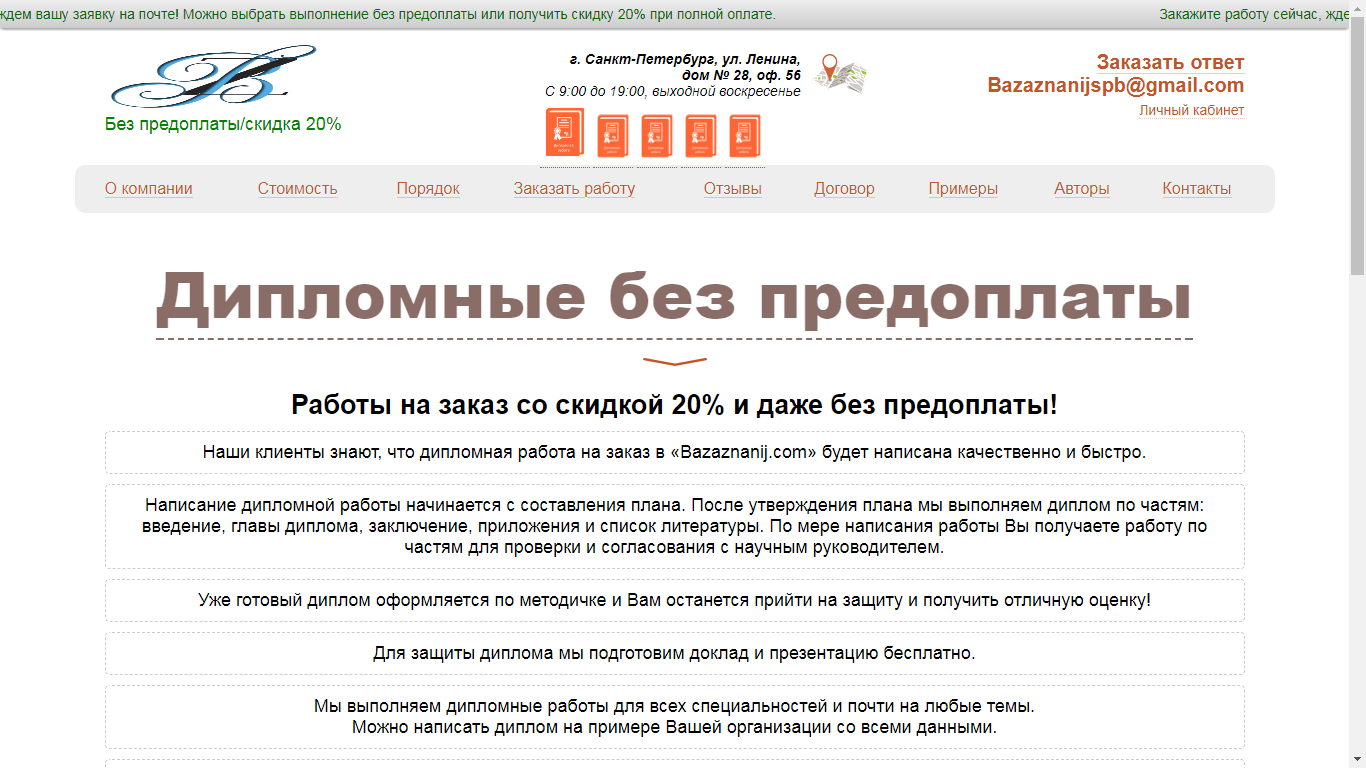
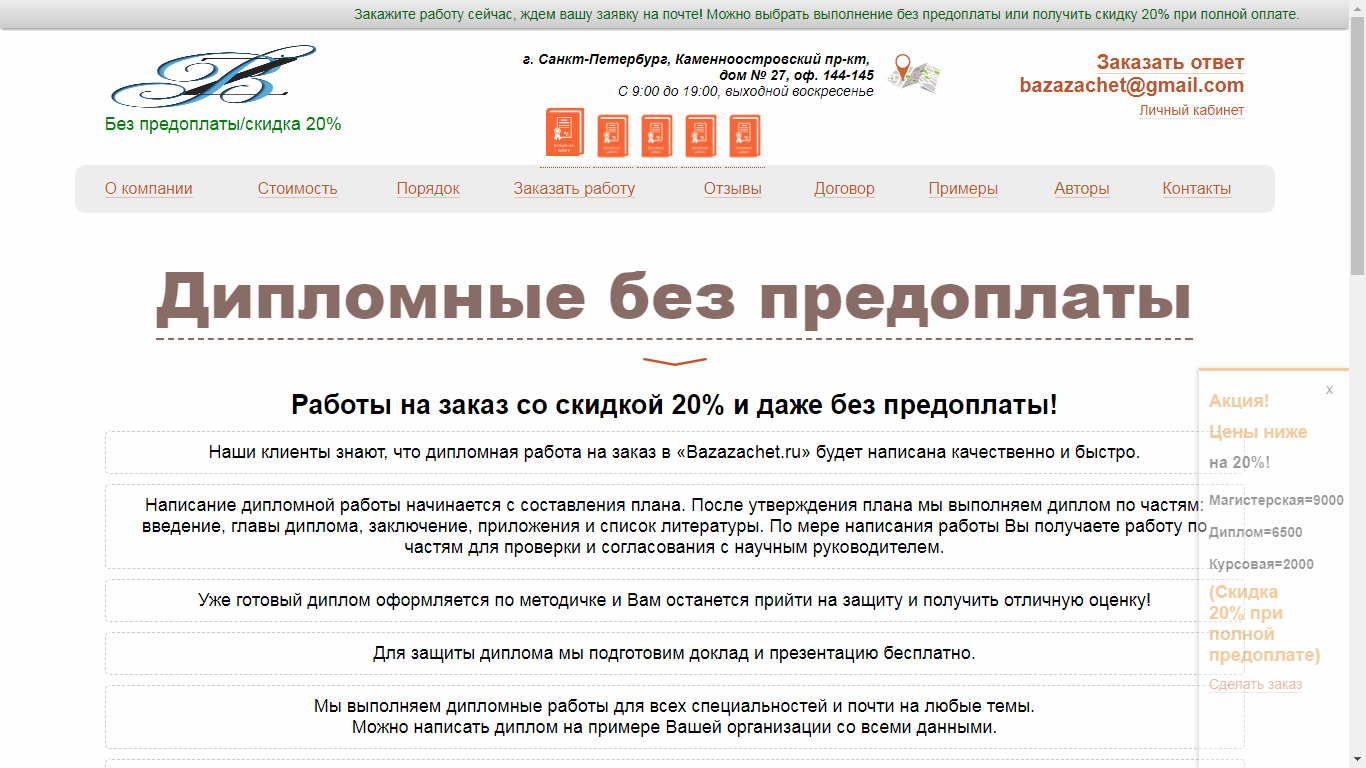
1

diff --git a/requisites.php b/requisites.php
@@ -3,7 +3,7 @@
 date_default_timezone_set('Europe/Moscow');
 $datetime_site = date("Y-m-d H:i:s");
 
-$main_name = "http://otzivi.16mb.com";
+$main_name = 'http://studotzyv.16mb.com';//"http://otzivi.16mb.com";
 $donor_name = 'http://studotzyv.ru';
 $donor_site_name = 'Студ Отзыв';
 $donor_site_name_2 = 'Студ-Отзыв';
@@ -13,46 +13,20 @@ $site_name = "Студенческие отзывы";
 $site_name_2 = "add@otzivi.16mb.com";
 
 
-$raskrutka_site_1 = 'bazaznanij.com';
-$raskrutka_site_2 = 'bazaznanij';
-$raskrutka_site_3 = 'BAZAZNANIJ.COM';
-$raskrutka_site_4 = 'bazaznanij_com';
-$raskrutka_site_5 = 'BAZAZNANIJ';
-$raskrutka_site_6 = 'Bazaznanij';
+$raskrutka_site_1 = 'bazazachet.ru';
+$raskrutka_site_2 = 'bazazachet';
+$raskrutka_site_3 = 'BAZAZACHET.RU';
+$raskrutka_site_4 = 'bazazachet_ru';
+$raskrutka_site_5 = 'BAZAZACHET';
+$raskrutka_site_6 = 'bazazachet';
 
-$raskrutka_site_adress = 'г. Санкт-Петербург, ул. Ленина, дом № 28, oф. 56';
+$raskrutka_site_adress = 'г. Санкт-Петербург, Каменноостровский пр-кт, дом № 27, oф. 144-145';
 
-$raskrutka_site_adress_2 = 'Санкт-Петербург, ул.Ленина, д.28';
+$raskrutka_site_adress_2 = 'Санкт-Петербург, Каменноостровский пр-кт, д.27';
 
-$raskrutka_site_coord = '59.962706, 30.301935'; //коориднаты на яндексе
+$raskrutka_site_coord = '59.964687, 30.314664'; //коориднаты на яндексе
 
 $yandex_google = '<meta name="yandex-verification" content="6e4381f481a11919" />
 <meta name="google-site-verification" content="x0bRPcSV-UZ6eX8xQj9xeNn6H0BjKQoxXnU7ZrHTiMM" />
-<!-- Yandex.Metrika counter -->
-<script type="text/javascript" >
-    (function (d, w, c) {
-        (w[c] = w[c] || []).push(function() {
-            try {
-                w.yaCounter46355988 = new Ya.Metrika({
-                    id:46355988,
-                    clickmap:true,
-                    trackLinks:true,
-                    accurateTrackBounce:true
-                });
-            } catch(e) { }
-        });
 
-        var n = d.getElementsByTagName("script")[0],
-            s = d.createElement("script"),
-            f = function () { n.parentNode.insertBefore(s, n); };
-        s.type = "text/javascript";
-        s.async = true;
-        s.src = "https://mc.yandex.ru/metrika/watch.js";
-
-        if (w.opera == "[object Opera]") {
-            d.addEventListener("DOMContentLoaded", f, false);
-        } else { f(); }
-    })(document, window, "yandex_metrika_callbacks");
-</script>
-<noscript><div><img src="https://mc.yandex.ru/watch/46355988" style="position:absolute; left:-9999px;" alt="" /></div></noscript>
-<!-- /Yandex.Metrika counter -->';
+';
